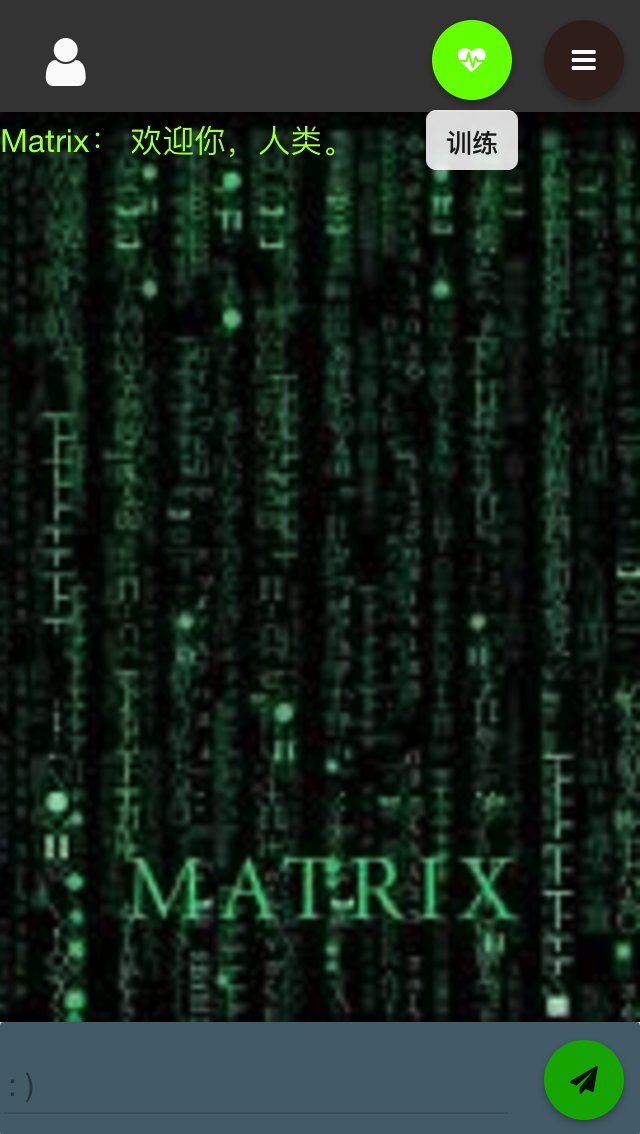
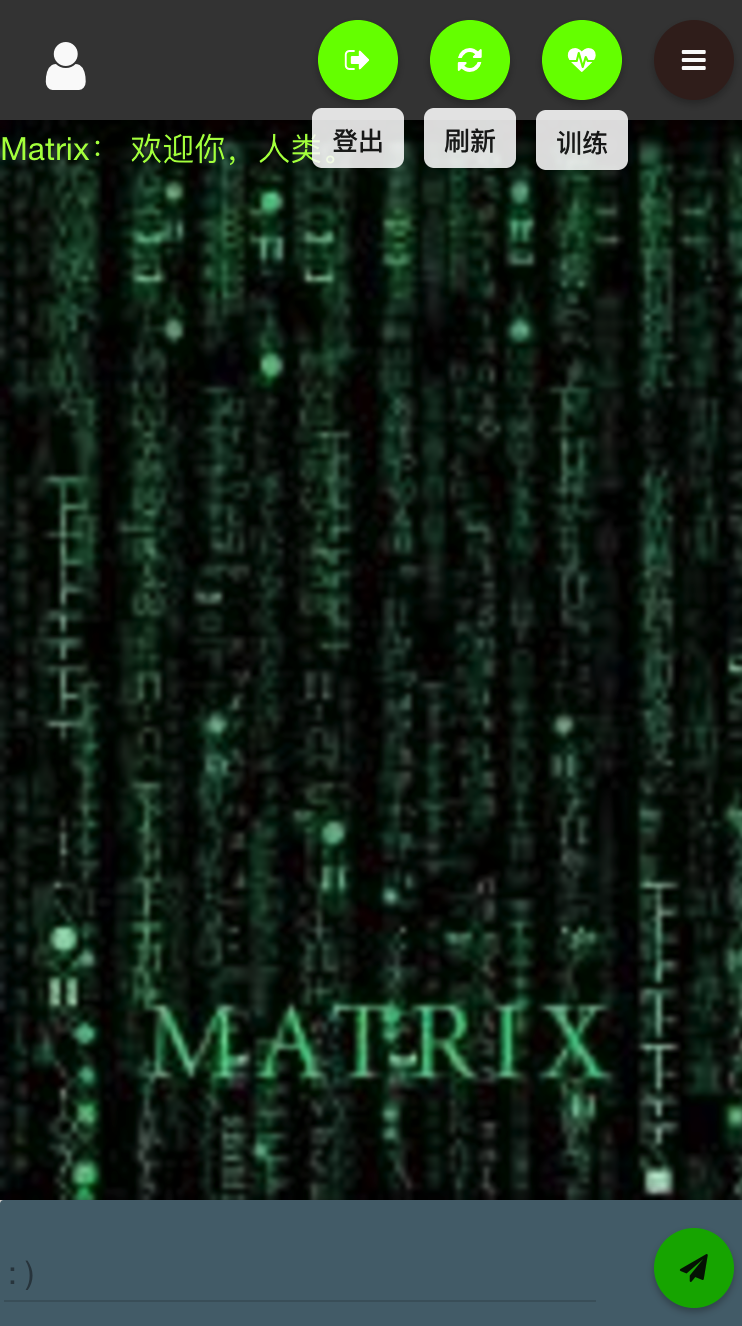
第三次修改：给程序添加了两个必要的功能，然后截图进论文里

diff --git a/bachelor.tex b/bachelor.tex
@@ -686,7 +686,7 @@ export default angular.module('chatWindow', ['ngMaterial', 'luegg.directives'])
 \end{table}
 
 
-用户登录页面，采取左侧弹出的形式。此论文里没有实现的必要，故只实现了 UI ，没有实现真正的后台。下面是实现代码和截图。
+用户注册，登录页面，采取左侧弹出的形式。下面是实现代码和截图。
 
 \begin{lstlisting}[language=C]
 export default {
@@ -702,12 +702,12 @@ export default {
 
 \begin{figure}[H]
   \centering
-  \includegraphics[width= 0.5\textwidth]{chat2.png}\\
+  \includegraphics[width= 1.0\textwidth]{login.png}\\
   \caption{用户登录页截图}\label{fig:pic8}
 \end{figure}
 
 
-训练按钮。因为目前的语料库构建好之后，被用户私自改动是很难再改回来的，所以目前没有支持该功能的打算，只是提供展示。下面是实现代码和截图。
+功能按钮。下面是实现代码和截图。
 
 \begin{lstlisting}[language=C]
 export default {
@@ -727,10 +727,27 @@ export default {
 \begin{figure}[H]
   \centering
   \includegraphics[width= 0.5\textwidth]{chat3.png}\\
-  \caption{训练按钮截图}\label{fig:pic9}
+  \caption{功能按钮截图}\label{fig:pic9}
 \end{figure}
 
-
+训练模式。与 jsonbot 文件保持同样的语法(既有 U，S 规则)。每次请求包括一个问句和一个答句。具体示范和代码请看如下图。
+\begin{lstlisting}[language=C]
+let trainning_starting = (input)=>{
+		if(input == '退出'){
+            ...
+			return ;
+		}
+		...
+		if (ret == 'in progress'){
+			...
+		}
+	};
+\end{lstlisting}
+\begin{figure}[H]
+  \centering
+  \includegraphics[width= 1.0\textwidth]{train.png}\\
+  \caption{训练模式截图}\label{fig:pic9}
+\end{figure}
 
 
 \chapter{总结与展望}
